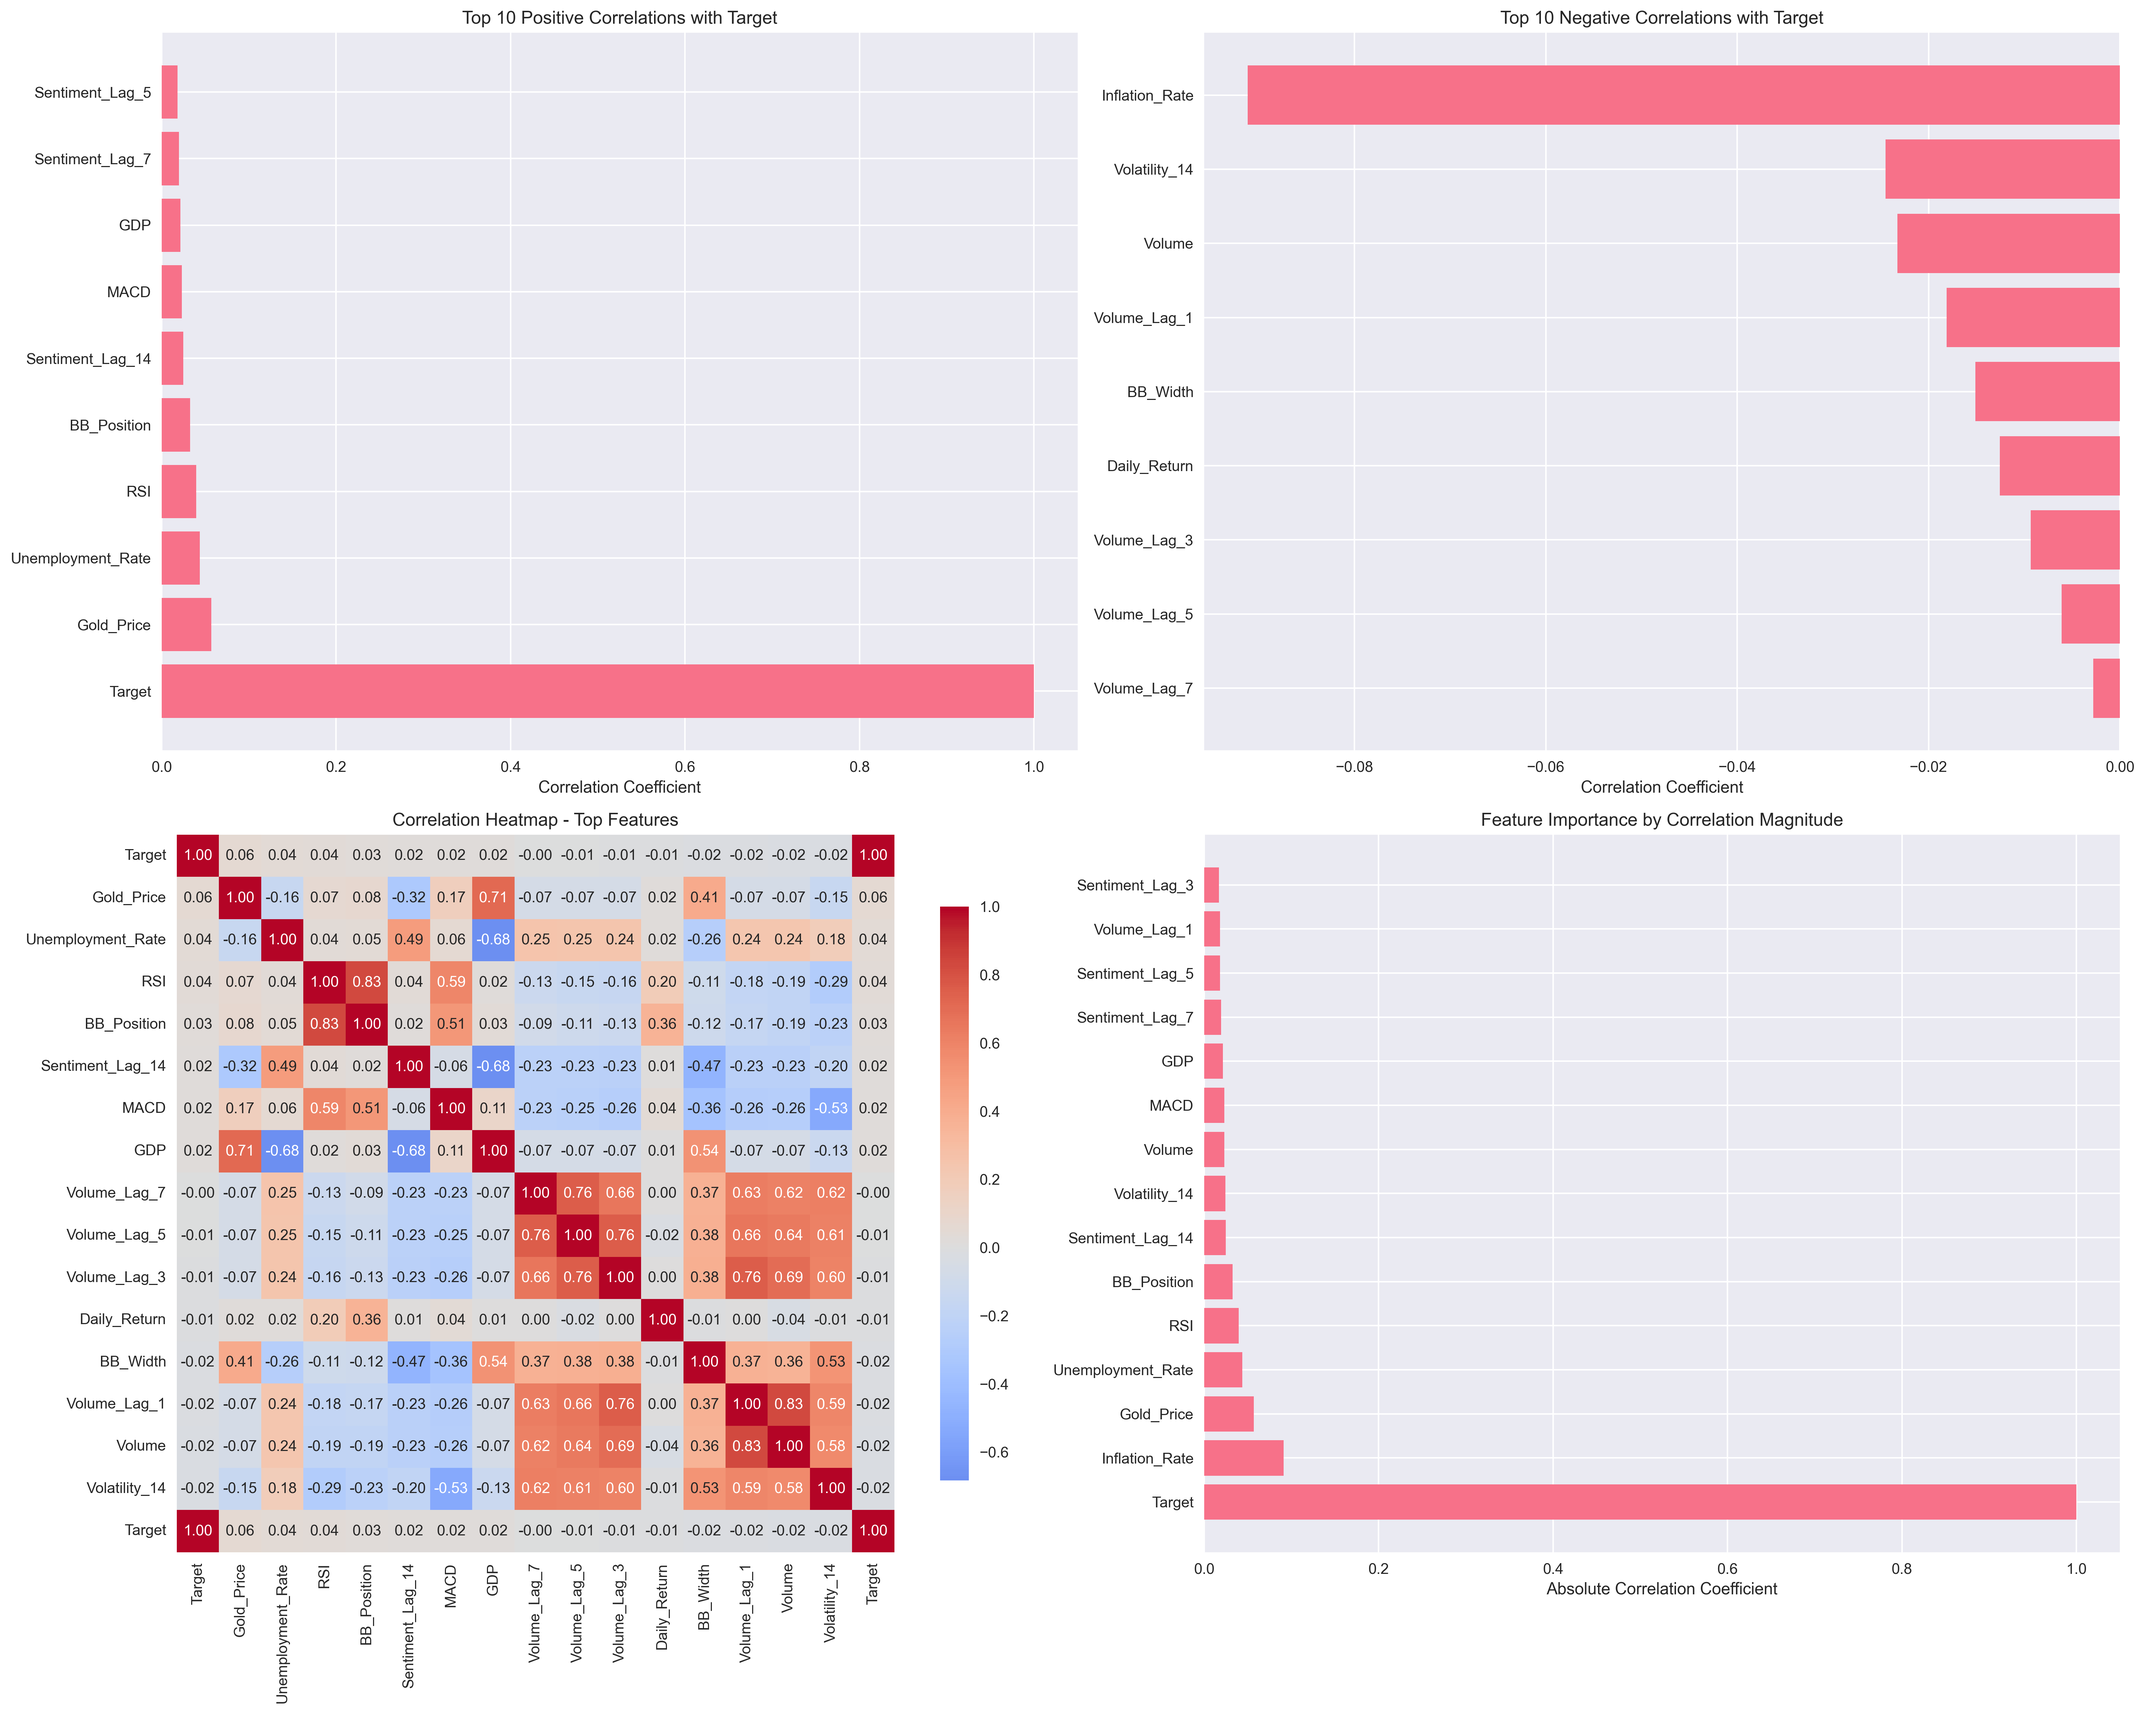
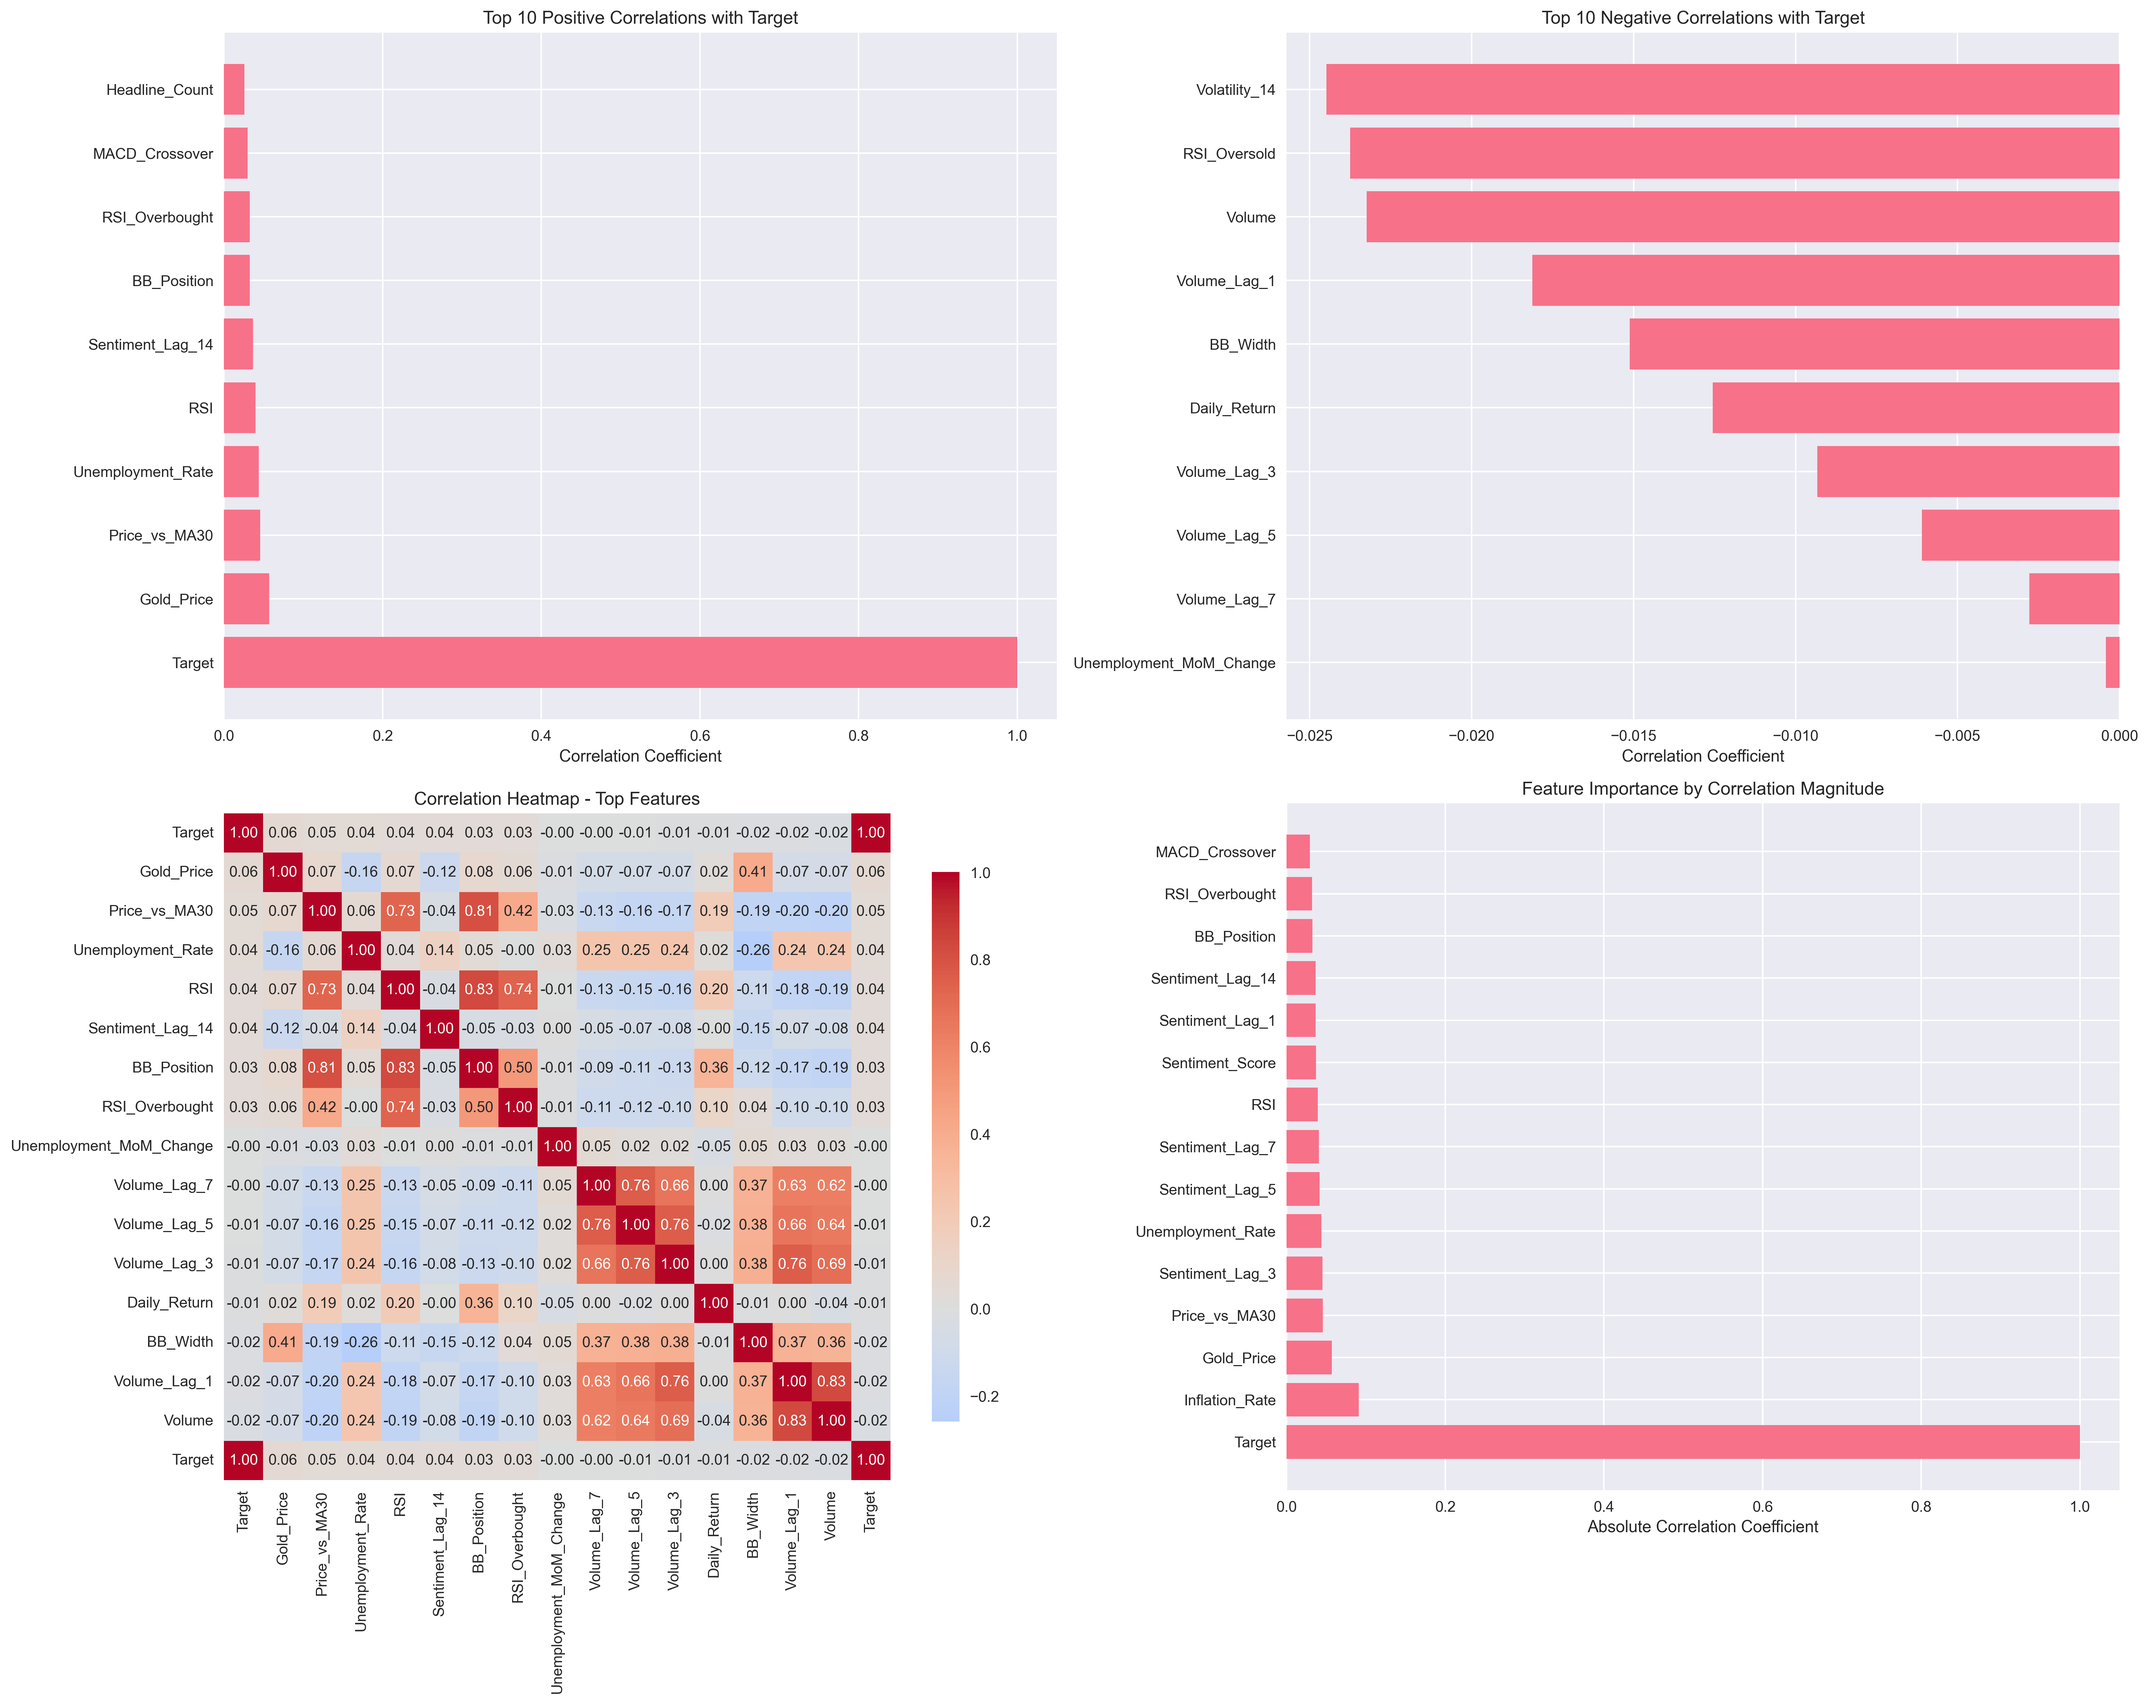
Refactor analysis functions to accept plots directory
- Updated analysis functions in `visualization.py` to include `plots_dir` parameter for dynamic plot saving paths.
- Modified calls to these functions in `main()` to pass the new `plots_dir` argument.
- Ensured that all relevant plots are saved in the specified directory, enhancing organization and flexibility.

diff --git a/visualization.py b/visualization.py
@@ -33,7 +33,7 @@ def load_and_prepare_data():
     
     return df
 
-def analyze_target_distribution(df):
+def analyze_target_distribution(df, plots_dir):
     """Analyze the target variable distribution"""
     fig, axes = plt.subplots(2, 2, figsize=(15, 10))
     
@@ -79,7 +79,7 @@ def analyze_target_distribution(df):
     plt.savefig(f'{plots_dir}/target_analysis.png', dpi=300, bbox_inches='tight')
     plt.show()
 
-def analyze_feature_correlations(df):
+def analyze_feature_correlations(df, plots_dir):
     """Analyze correlations between features and target"""
     # Select numerical features (excluding Date and Target)
     numerical_cols = df.select_dtypes(include=[np.number]).columns.tolist()
@@ -129,7 +129,7 @@ def analyze_feature_correlations(df):
     
     return correlations
 
-def analyze_technical_indicators(df):
+def analyze_technical_indicators(df, plots_dir):
     """Analyze technical indicators and their relationship with target"""
     fig, axes = plt.subplots(2, 2, figsize=(15, 12))
     
@@ -167,7 +167,7 @@ def analyze_technical_indicators(df):
     plt.savefig(f'{plots_dir}/technical_indicators_analysis.png', dpi=300, bbox_inches='tight')
     plt.show()
 
-def analyze_sentiment_and_news(df):
+def analyze_sentiment_and_news(df, plots_dir):
     """Analyze sentiment and news features"""
     fig, axes = plt.subplots(2, 2, figsize=(15, 12))
     
@@ -207,7 +207,7 @@ def analyze_sentiment_and_news(df):
     plt.savefig(f'{plots_dir}/sentiment_analysis.png', dpi=300, bbox_inches='tight')
     plt.show()
 
-def analyze_economic_indicators(df):
+def analyze_economic_indicators(df, plots_dir):
     """Analyze economic indicators"""
     fig, axes = plt.subplots(2, 2, figsize=(15, 12))
     
@@ -246,7 +246,7 @@ def analyze_economic_indicators(df):
     plt.savefig(f'{plots_dir}/economic_indicators_analysis.png', dpi=300, bbox_inches='tight')
     plt.show()
 
-def perform_feature_selection(df):
+def perform_feature_selection(df, plots_dir):
     """Perform feature selection analysis"""
     # Prepare data for feature selection
     numerical_cols = df.select_dtypes(include=[np.number]).columns.tolist()
@@ -399,22 +399,22 @@ def main():
     
     # Run analyses
     print("\nAnalyzing target distribution...")
-    analyze_target_distribution(df)
+    analyze_target_distribution(df, plots_dir)
     
     print("\nAnalyzing feature correlations...")
-    correlations = analyze_feature_correlations(df)
+    correlations = analyze_feature_correlations(df, plots_dir)
     
     print("\nAnalyzing technical indicators...")
-    analyze_technical_indicators(df)
+    analyze_technical_indicators(df, plots_dir)
     
     print("\nAnalyzing sentiment and news features...")
-    analyze_sentiment_and_news(df)
+    analyze_sentiment_and_news(df, plots_dir)
     
     print("\nAnalyzing economic indicators...")
-    analyze_economic_indicators(df)
+    analyze_economic_indicators(df, plots_dir)
     
     print("\nPerforming feature selection analysis...")
-    mi_df, f_df = perform_feature_selection(df)
+    mi_df, f_df = perform_feature_selection(df, plots_dir)
     
     print("\nGenerating summary report...")
     generate_summary_report(df, correlations, mi_df, f_df)
